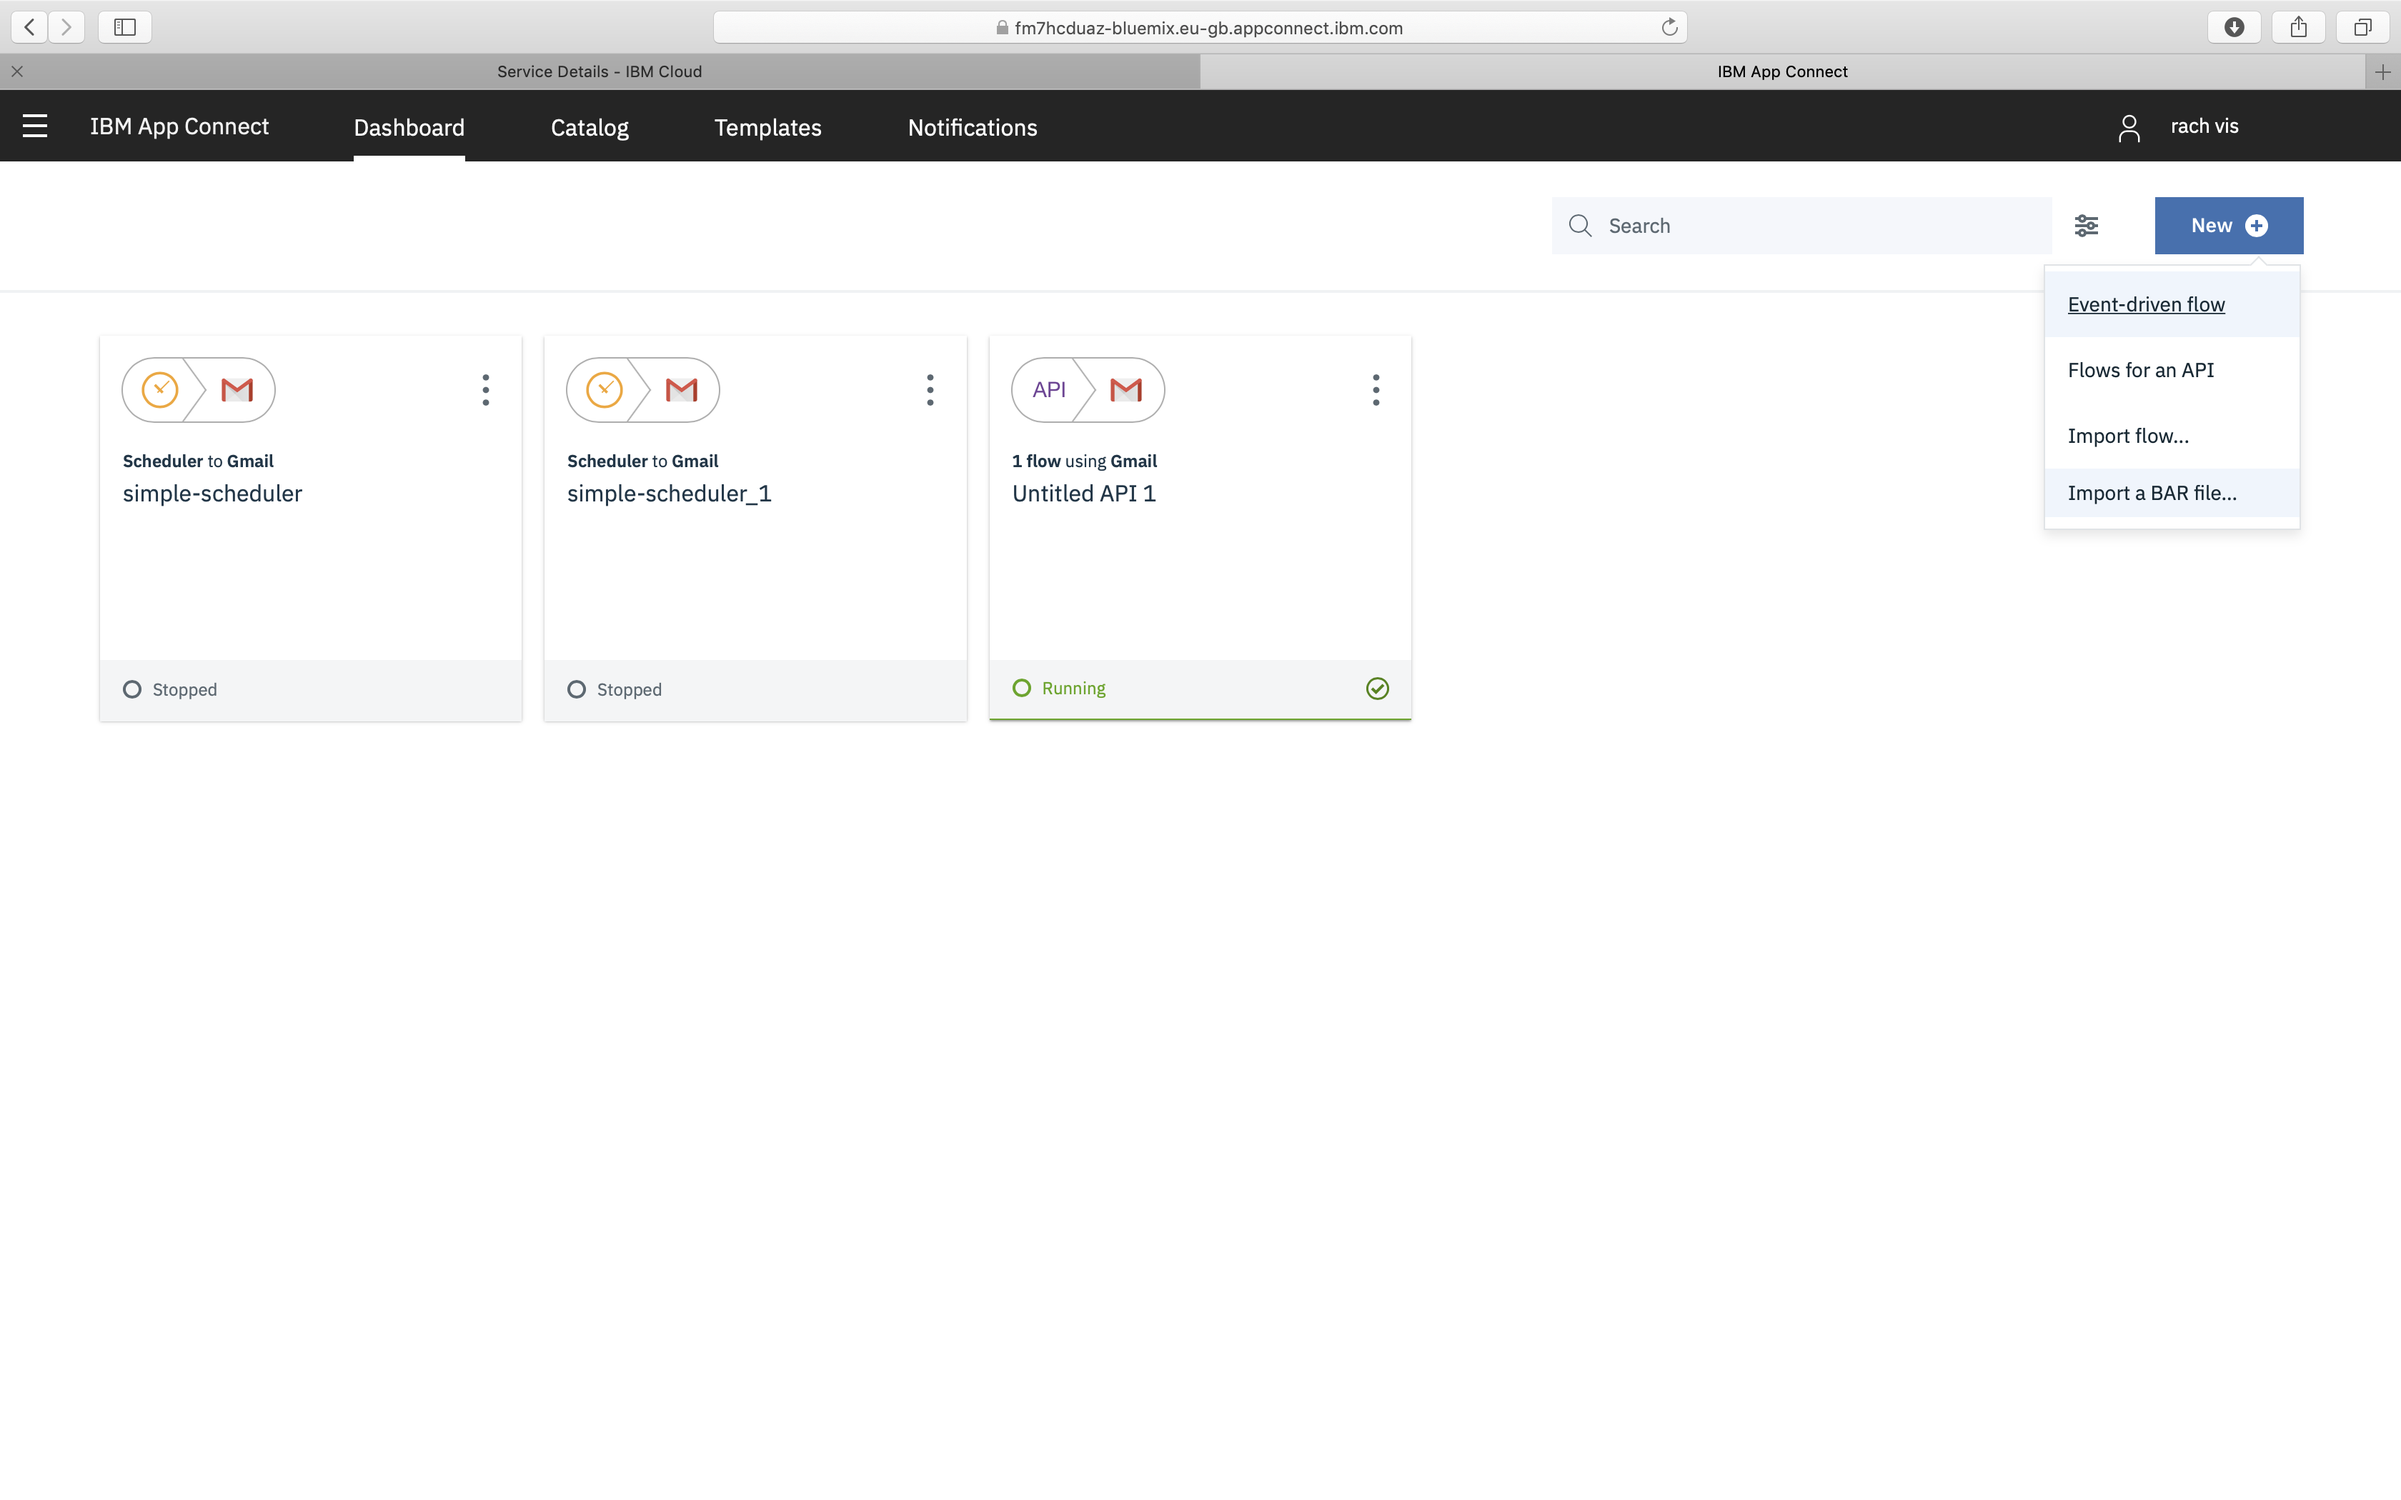
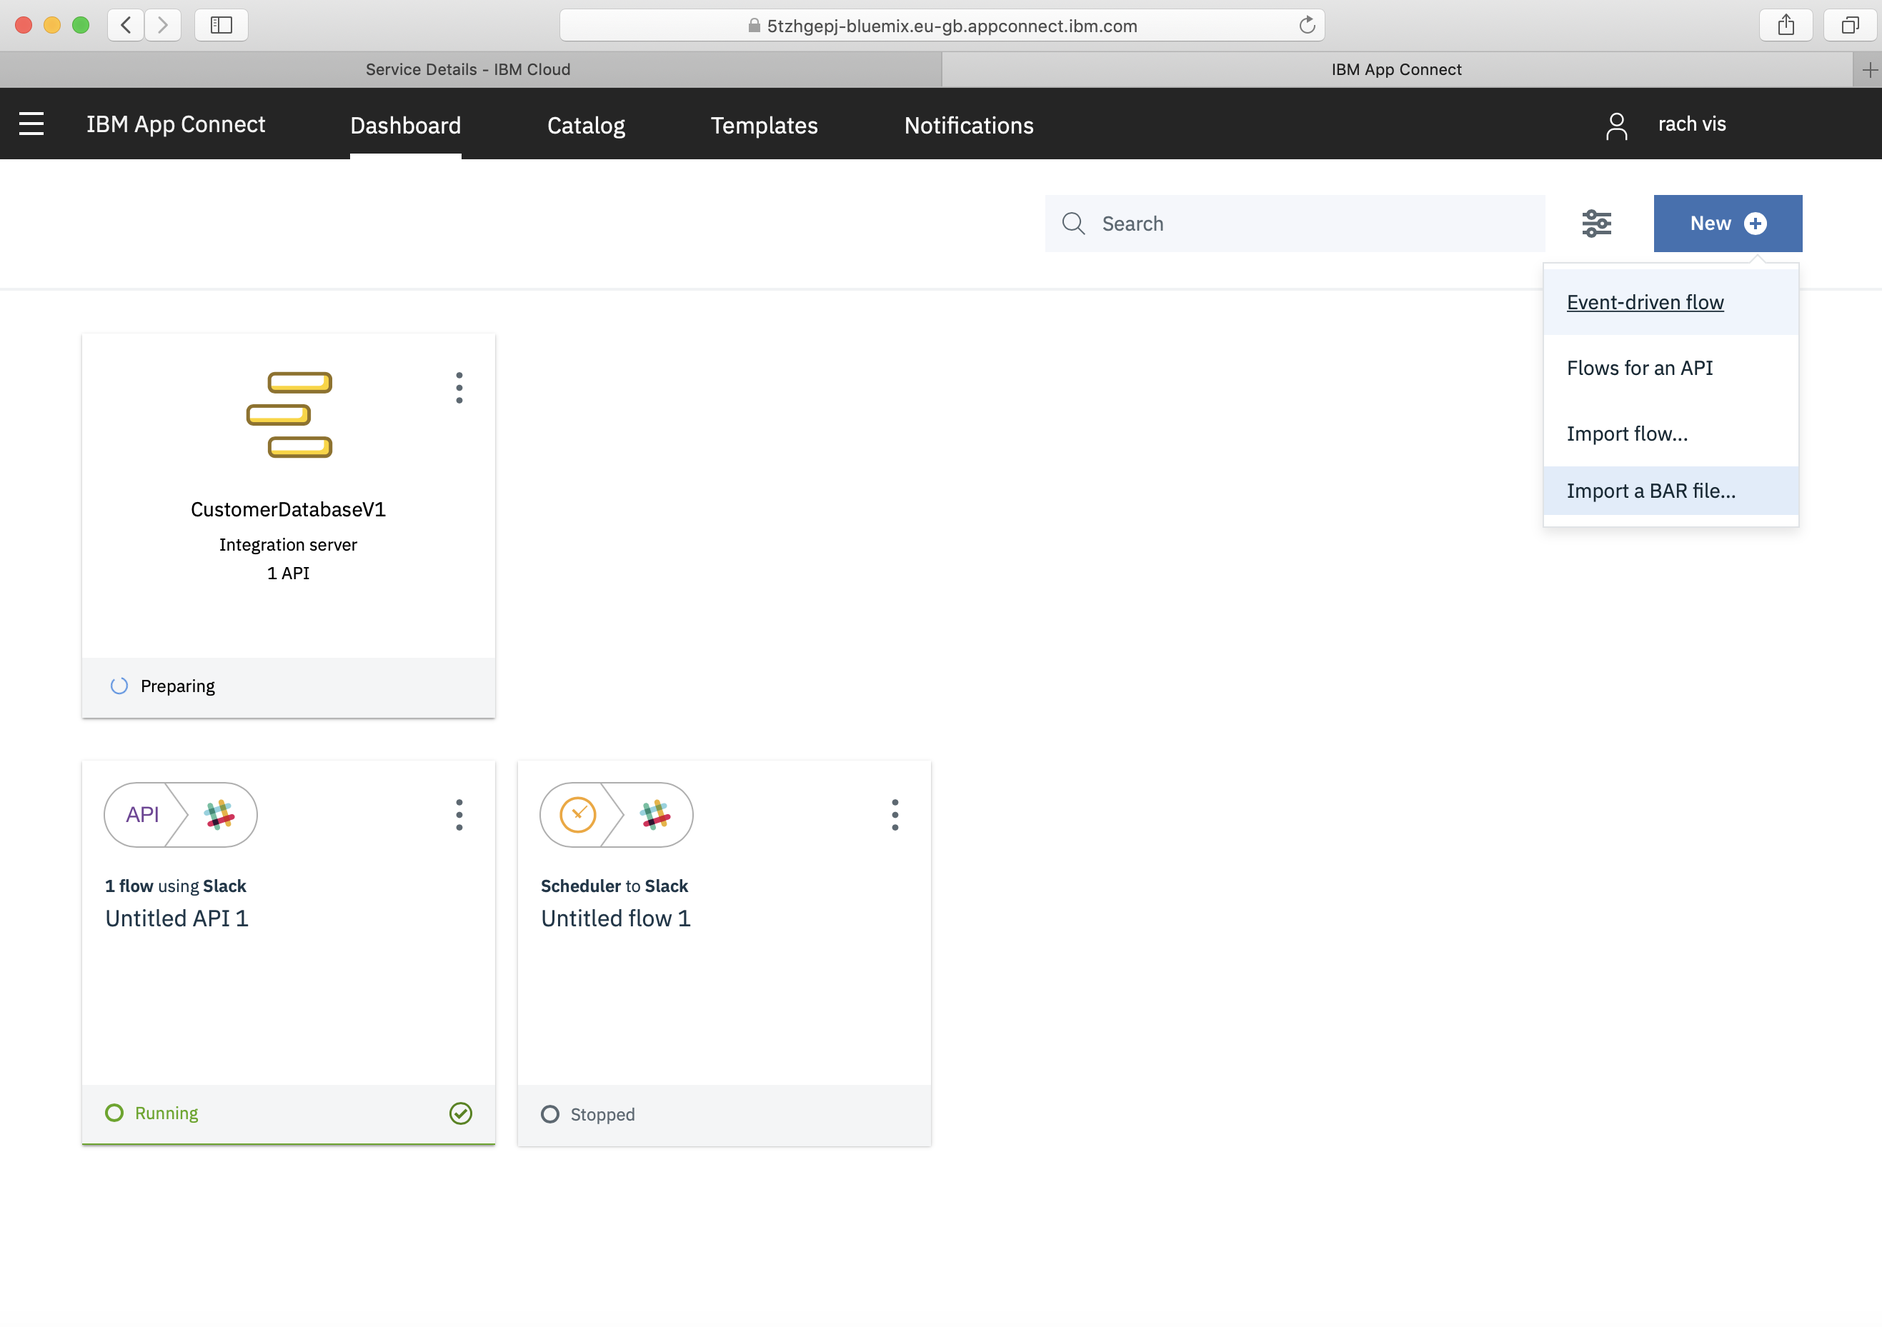
Update API Connect

diff --git a/lab4-apiconnect-appconnect/App Connect/README.MD b/lab4-apiconnect-appconnect/App Connect/README.MD
@@ -7,32 +7,30 @@ In this lab, you will create a simple application flow using IBM App Connect. Yo
 ## [Steps to register for IBM Cloud](https://github.com/rachana5198/APP-Connect-handson#steps-to-register-for-ibm-cloud)
 
 Go to [IBM Cloud](https://cloud.ibm.com/login)
-If you are a existing user, login using your credentials. If you are new user, register for IBM cloud and login.
-![](img/picture1.png)
+If you are an existing user, login using your credentials. If you are new user, register for IBM cloud and login.
+![](img/cloudlogin.png)
 
 ## [Setup an APP Connect service](https://github.com/rachana5198/APP-Connect-handson#setup-an-app-connect-service)
-1. Lets go to [IBM Cloud Catalog](https://cloud.ibm.com/catalog) and search for App Connect.
+1. Let's go to [IBM Cloud Catalog](https://cloud.ibm.com/catalog) and search for App Connect.
 
-![](img/picture2.png)
+![](img/catalogsearch.png)
 
 2. Click on the service App Connect to instantiate it on IBM cloud.
 
-![](img/picture3.png)
-
 3. Click on ```create```
 
-![](img/picture4.png)
+![](img/instancecreation.png)
 
 4. Launch the service by clicking ```Launch App Connect```
 
-![](img/picture5.png)
+![](img/launch.png)
 
 ## [Creating event driven flows](https://github.com/rachana5198/APP-Connect-handson#creating-event-driven-flows)
 
 1. After launching the dashboard, click on New. (Rename your flow, if needed)
 To create a new event driven flow, ```New -> Event-driven flow```
 
-![](img/picture6.png)
+![](img/newflow.png)
 
 2. To add applications to your flow, Click on '+' and select applications that you want to add to your flow. Here, we are creating a simple flow to send emails at some interval of time.
 
@@ -40,32 +38,40 @@ To create a new event driven flow, ```New -> Event-driven flow```
 
 3. To be able to schedule events, there is a tool called scheduler in the toolbox. To add this to your flow, ```+ -> Toolbox -> Scheduler```
 
-![](img/picture8.png)
+![](img/scheduler.png)
 
-4. Configure the scheduler component according to your preferences. Here I am creating a flow that sends email for every one minute.
+4. Configure the scheduler component according to your preferences. Here I am creating a flow that sends slack message for every one minute.
 
-![](img/picture9.png)
+![](img/plus.png)
 
-5. To add the next node to the flow, click on '+'. Here, we are adding email component so that we will be able to send emails at scheduled time. To do this, ```+ -> Applications -> Gmail -> Create email```
+5. To add the next node to the flow, click on '+'. Here, we are adding email component so that we will be able to send emails at scheduled time. To do this, ```+ -> Applications -> Slack -> Create email```
 
-![](img/picture10.png)
+![](img/slack.png)
 
 6. Connect the account using which you want to automate this task(preferably your gmail account).
-To connect your account, ```Click on gmail node -> Connect```. This will redirect you to gmail login page, finish the login and permissions and refresh the IBM App connect page, then you should be able to see your account in the drop down.
+To connect your account, ```Click on Slack node -> Connect```. This will redirect you to gmail login page, finish the login and permissions and refresh the IBM App connect page, then you should be able to see your account in the drop down.
 
-![](img/picture11.png)
+![](img/connect.png)
 
-7. Configure the email node with your details and content.
+7. Configure the slack node with your details and content.
 
-![](img/picture12.png)
+![](img/slack1.png)
+
+  Click allow
+
+![](img/slackallow.png)
+
+  Enter details in the slack nodes
+
+![](img/configure.png)
 
 8. To start the flow, click start from the right corner of the screen.
 
-![](img/picture13.png)
+![](img/starteflow.png)
 
-9. Once the flow starts and the dashboard shows the status 'Running' that means the event flow has started. To cross check, go to your email and see if there is a new email.
+9. Once the flow starts and the dashboard shows the status 'Running' that means the event flow has started. To cross check, go to your Slack and see if there is a new message.
 
-![](img/picture14.png)
+![](img/outputeflow.png)
 
 This is how event driven flows work, scroll down to see some sample flows in Sample flows section.
 
@@ -73,40 +79,40 @@ This is how event driven flows work, scroll down to see some sample flows in Sam
 
 1. To create flows for API, launch the App Connect dashboard and click on new then select flows for API. ``` Launch dashboard -> New -> Flows for API ```
 
-![](img/picture15.png)
+![](img/newaflow.png)
 
 2. On creating, it will take you to the service page. Rename the flow(if needed). Give a name to the flow and click on Create model. ```Enter a model name -> create model```
 
-![](img/picture16.png)
+![](img/mname.png)
 
 3. Add the properties that you want to add to the model that you are creating. Here, I am creating a simple flow that sends emails on sending a API request.
 
-![](img/picture17.png)
+![](img/props.png)
 
 4. After defining the properties, operations have to be added. Click on operations and select the operation that you want to perform. Here, I am selecting Create demo as operation. ``` Operations -> (scroll down) Create Demo```
 
-![](img/picture18.png)
+![](img/operations.png)
 
 5. Wait for the model to load and then start adding nodes to your flow. I have added a POST method which automatically generated Request and Response nodes. Make sure that the request node has sample data configured in it which is auto-generated. Refresh the page if you are not able to see the changes.
 
-![](img/picture19.png)
+![](img/implementflow.png)
 
-6. To add nodes to your flow, click on '+' which is in between request and response nodes. Then, add nodes to your flow. Here, I am adding a Gmail node to the flow. ``` + -> Applications -> Gmail -> Create email ```
+6. To add nodes to your flow, click on '+' which is in between request and response nodes. Then, add nodes to your flow. Here, I am adding a Slack node to the flow. ``` + -> Applications -> Slack -> Create message ```
 
-![](img/picture20.png)
+![](img/plusslack.png)
 
-7. Configure the email node. If its not connected, click on connect and give access to your account/default account that you want to set up. Check if your node is connected to your account. Refresh the page to see changes and make sure you see your account details when you click on the node.
+7. Configure the slack node. If its not connected, click on connect and give access to your account/default account that you want to set up. Check if your node is connected to your account. Refresh the page to see changes and make sure you see your account details when you click on the node.
 You can auto match the node fields or add them manually. Here, I am adding auto matched fields which are the node properties that we have added to the flow in the beginning.
 
-![](img/picture21.png)
+![](img/slackconfigure.png)
 
 8. Now configure the response node as well. We can either auto match the node details or give them manually. Here we have given them manually, based on requirement we can auto-match.
 
-![](img/picture22.png)
+![](img/response.png)
 
 9. Once when all the nodes of the flow are configured, click ```Done``` on the right corner of the screen. This will take you to the previous screen and you can see properties and operations on the screen.
 
-![](img/picture23.png)
+![](img/response.png)
 
 10. Now that the flow creation is done, we have to create an API to call the flow. To do this go to manage section of the dashboard.
 
@@ -114,31 +120,31 @@ You can auto match the node fields or add them manually. Here, I am adding auto 
 
 11. ``` Manage -> Scroll```
 
-![](img/picture25.png)
+![](img/manage.png)
 
 12. On the end of screen, click on create API under Sharing outside of cloud foundry organization. ```Manage -> Sharing Outside Cloud Foundry organization -> Create API```
 
-![](img/picture26.png)
+![](img/scroll.png)
 
 13. Give the details required for API creation in the pop-up generated on clicking Create API. ```Create API -> Fill details -> Done```
 
-![](img/picture27.png)
+![](img/createapi.png)
 
 14. Refresh the page. Start the flow by clicking Start from right corner of the screen.```Manage -> Start API``` and then click on the API link from ```Manage -> Sharing Outside Cloud Foundry organization -> Click API link```. This will redirect you to the API page.
 
-![](img/picture28.png)
+![](img/link.png)
 
-15. CLick on ```Try it``` from the right corner which will generate automatic data.
+15. Click on ```Try it``` from the right corner which will generate automatic data.
 
-![](img/picture29.png)
+![](img/tryit.png)
 
 16. To test the API call, click on ```Call Operation```.
 
-![](img/picture30.png)
+![](img/calloperation.png)
 
-17. To check if the API is working, go the email that you have set in the configuration flow. It will look something like this:
+17. To check if the API is working, go to the email that you have set in the configuration flow. It will look something like this:
 
-![](img/picture31.png)
+![](img/aoutput.png)
 
 ## [Integration servers with APP connect](https://github.com/rachana5198/APP-Connect-handson#integration-servers-with-app-connect)
 
@@ -150,7 +156,7 @@ You can auto match the node fields or add them manually. Here, I am adding auto 
 
 ![](img/is2.png)
 
-3. Click Import. An integration server is created, and a tile is added to the dashboard to represent it. Initially, you’ll see the status as “Preparing”, which means that the contents of the BAR file are being unpacked onto the integration server. When preparation has finished, the status will show as “Stopped”, indicating that the integration server is ready to be configured and started. If you see a message saying that preparation failed, click Try again in the message to start preparation again. You can see a summary of the contents of the integration server by clicking the arrow The arrow icon that allows you to see a summary of the contents of an integration server on the tile.
+3. Click Import. An integration server is created, and a tile is added to the dashboard to represent it. Initially, you’ll see the status as “Preparing”, which means that the contents of the BAR file are being unpacked onto the integration server. When preparation has finished, the status will show as “Stopped”, indicating that the integration server is ready to be configured and started. If you see a message saying that preparation failed, click Try again in the message to start preparation again. You can see a summary of the contents of the integration server by clicking the arrow. The arrow icon that allows you to see a summary of the contents of an integration server on the tile.
 
 4. Open the integration server by clicking the tile, or expanding the tile menu (⋮) and then clicking Open.
 
@@ -158,21 +164,23 @@ You can auto match the node fields or add them manually. Here, I am adding auto 
 
 6. When you’ve completed configuration, return to the App Connect on IBM Cloud dashboard and start the integration server by opening the tile menu and then clicking Start.
 
-![](img/is3.png)
+![](img/startis.png)
 
 7. You can also use the tile menu to delete or update the BAR file. The “update” option allows you to upload a new version of a BAR file. On clicking the integration server that you have uploaded, it looks something like this:
 
-![](img/is4.png)
+![](img/viewlogs.png)
 
 8. When your integration server is running, you can view logs by opening the integration server and then clicking View logs. ```Server page -> View logs```
 
-![](img/is5.png)
+![](img/viewlogs.png)
+
+![](img/isoutput.png)
 
 ## [Import and export flows](https://github.com/rachana5198/APP-Connect-handson#import-and-export-flows)
 
 #### EXPORT FLOWS
 
-1. To export a flow, go to App Connect dashboard and clock on the flow that you want to export. On clicking, select the option export flow. ```App Connect Dashboard -> Flow -> Export Flow```
+1. To export a flow, go to App Connect dashboard and click on the flow that you want to export. On clicking, select the option export flow. ```App Connect Dashboard -> Flow -> Export Flow```
 
 ![](img/ef1.png)
 
@@ -182,7 +190,7 @@ You can auto match the node fields or add them manually. Here, I am adding auto 
 
 #### IMPORT FLOWS
 
-1. To import a flow, clock on New from the right corner of App Connect Dashboard and select import flow. ```App Connect Dashboard -> New -> Import flow```
+1. To import a flow, click on New from the right corner of App Connect Dashboard and select import flow. ```App Connect Dashboard -> New -> Import flow```
 
 ![](img/if1.png)
 
@@ -194,7 +202,10 @@ You can auto match the node fields or add them manually. Here, I am adding auto 
 
 ![](img/final.png)
 
-## [Sample flows](https://github.com/rachana5198/APP-Connect-handson#sample-flows)
+## Next Steps
+
+### [Sample flows](https://github.com/rachana5198/APP-Connect-handson#sample-flows)
+
 1. Use the For Each node and JSONata to process high-priority issues.
 ![](img/sf1.png)
 2. Create new leads in ```Marketo``` by capturing lead names and details in ```Slack```
